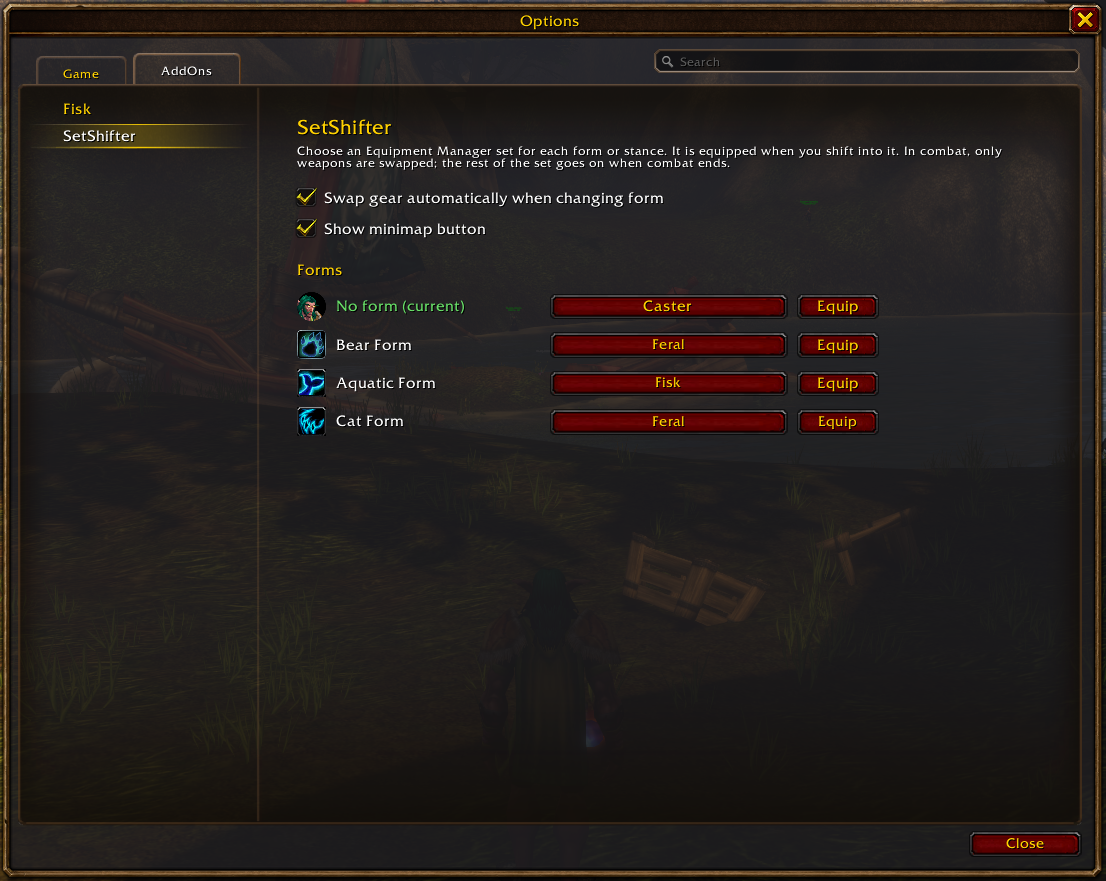
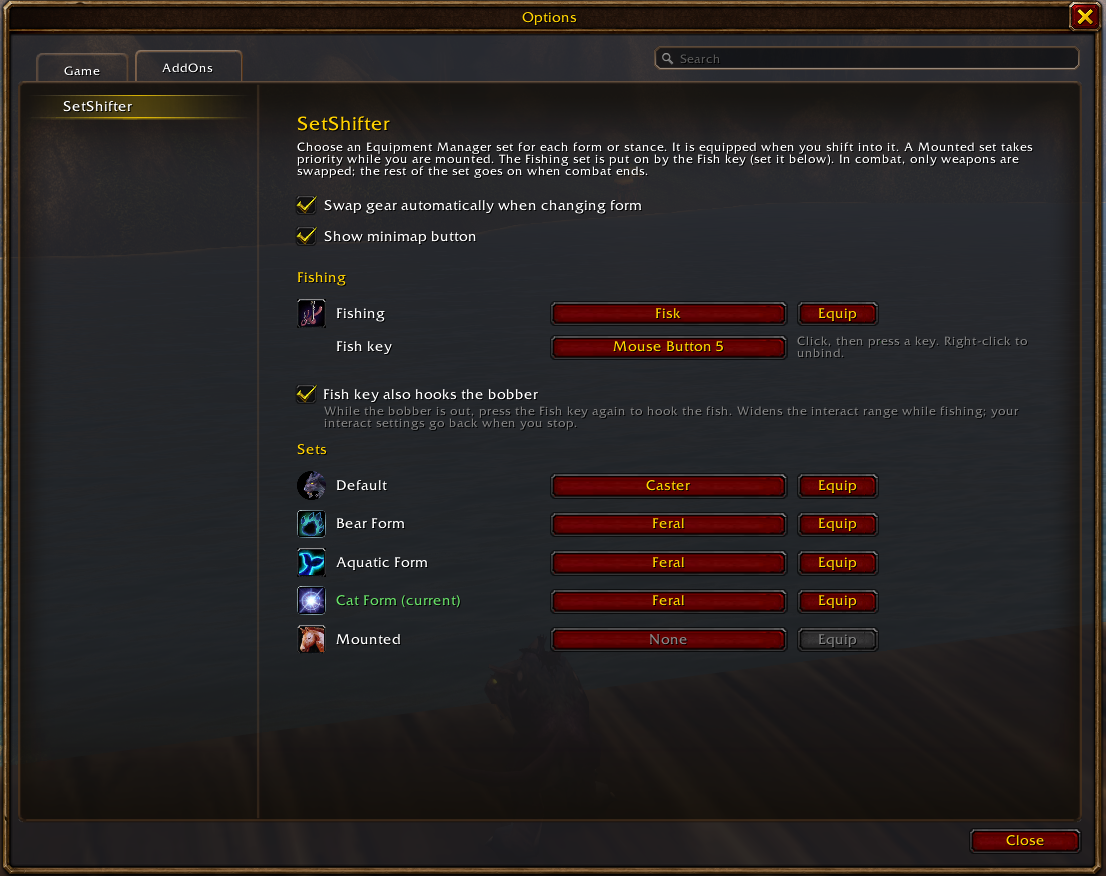
Update settings screenshot with the Fishing section

diff --git a/README.md b/README.md
@@ -2,7 +2,7 @@
 
 A World of Warcraft addon that equips an Equipment Manager set when you change shapeshift form.
 
-![SetShifter settings panel, with a gear set mapped to each druid form](screenshots/options.png)
+![SetShifter settings panel, with a Fishing set and Fish key, and a gear set mapped to each druid form](screenshots/options.png)
 
 It works with any class that has a stance bar:
 
